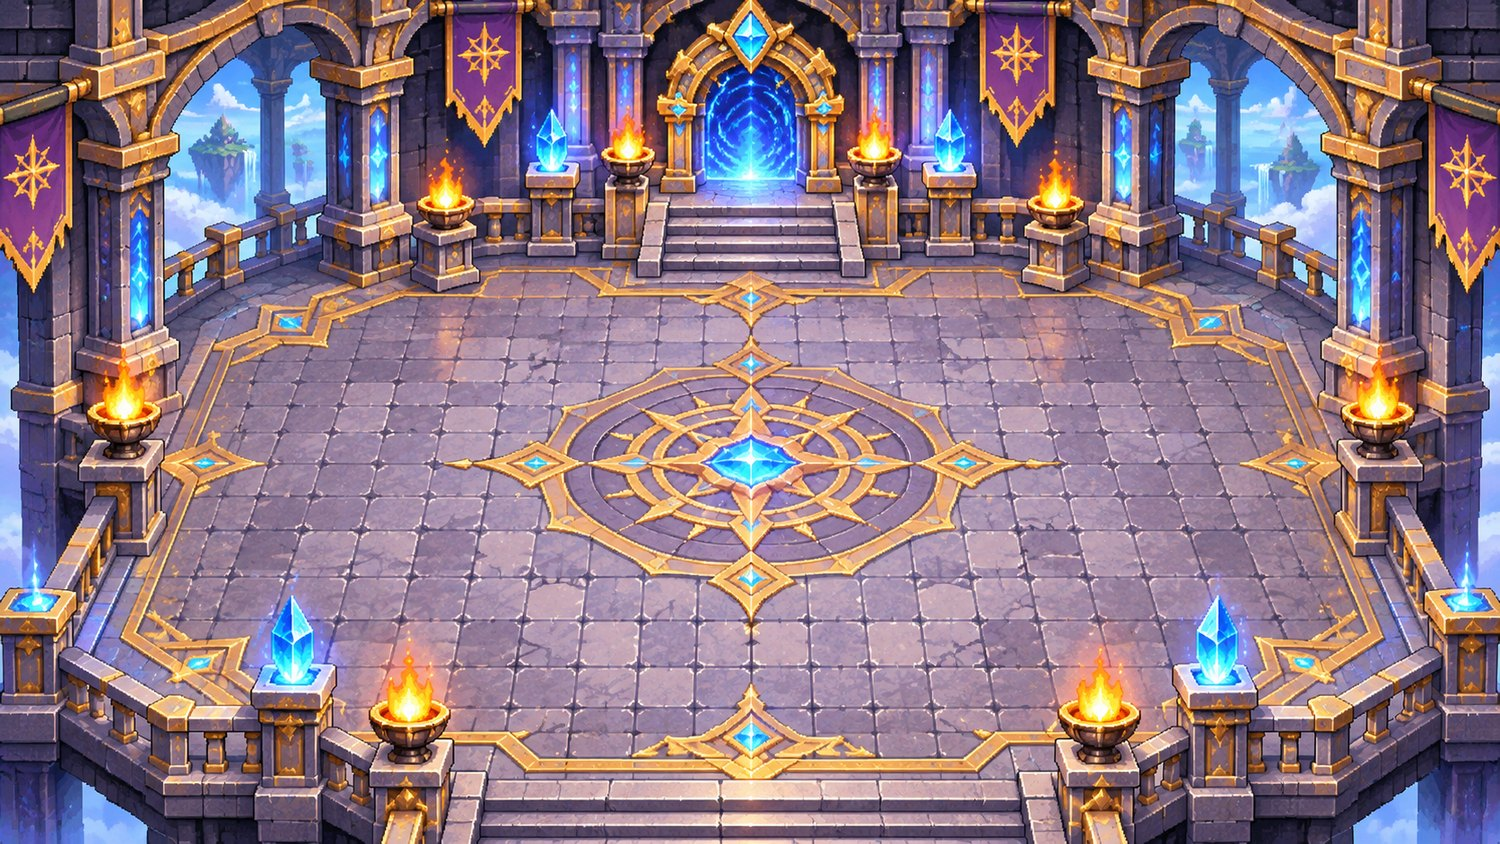
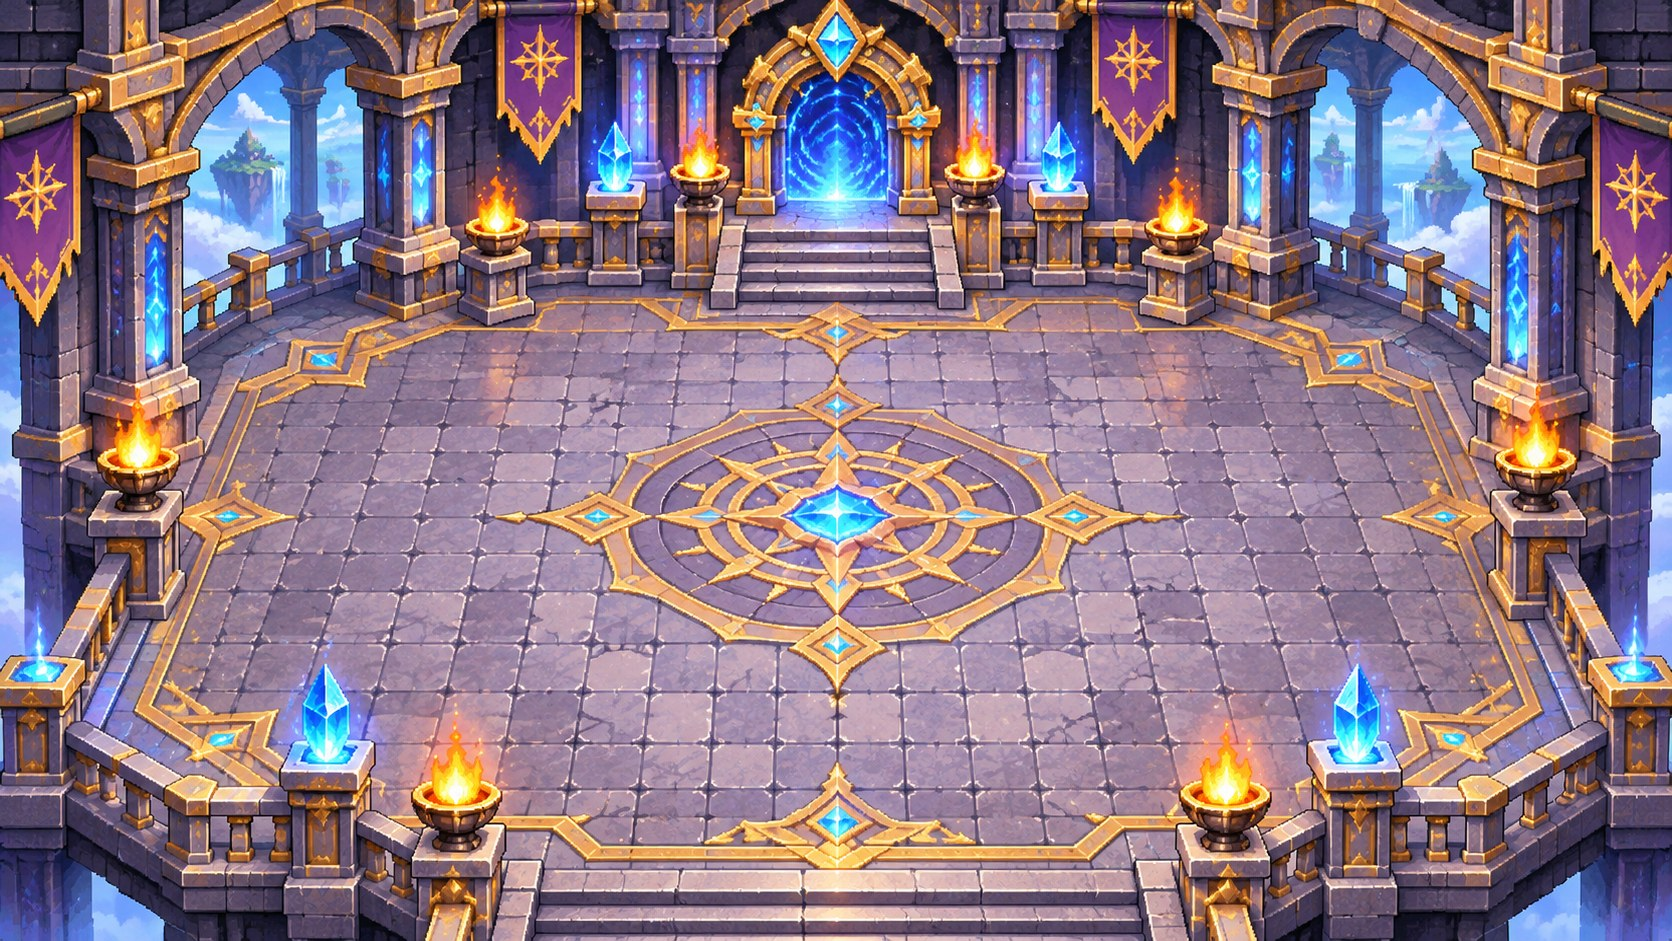
v264: the tower hall picture fills the whole map (no dark bands), full-resolution
The map is as tall as the picture and as wide as its 16:9 (2310 × 1300); the walkable floor follows the picture's
floor again (900 × 385). Re-measured: a little easier than on the cropped floor.

Claude-Session: https://claude.ai/code/session_014wFmWGCviaZX45qxFt5PbG

diff --git a/js/world/towermap223.js b/js/world/towermap223.js
@@ -13,7 +13,7 @@
    Nothing else of the tower changes (levels, waves, timers, blessings, rewards, rankings, party climbs). */
 'use strict';
 
-const TWM_W = 1500, TWM_H = 1300, TWM_RX = 580, TWM_RY = 255;   // (v263) the floor of the owner's hall picture (towerimg263.js); was 390
+const TWM_W = 2310, TWM_H = 1300, TWM_RX = 900, TWM_RY = 385;   // (v264) the owner's hall picture fills the whole map (1300 tall, 16:9 → 2310 wide) and the floor in it
 /* (v259) the owner's six zones, by floor: 1–20 · 21–40 · 41–60 · 61–80 · 81–99 · 100 (towerart259.js paints what
    makes each one itself) */
 const TWM_TIERS = [
@@ -28,7 +28,7 @@ const TWM = {tier:-1, open:false, climbT:0};
 const twmOn = () => typeof TW !== 'undefined' && TW.active && typeof DG !== 'undefined' && DG.did === 'tower';
 const twmTierOf = f => (f >= 100 ? 5 : f > 80 ? 4 : f > 60 ? 3 : f > 40 ? 2 : f > 20 ? 1 : 0);   // (v259) the owner's zones
 const twmT = () => TWM_TIERS[twmTierOf(TW.f)];
-const twmC = () => ({x:W / 2, y:H / 2 + 70});
+const twmC = () => ({x:W / 2, y:H * .615});   // (v264) the centre of the picture's floor
 const twmStairs = () => { const c = twmC(); return {x:c.x, y:c.y - TWM_RY + 5}; };   // (v263) at the foot of the gate's steps in the picture
 const twmEntry = () => { const c = twmC(); return {x:c.x, y:c.y + TWM_RY - 90}; };
 const twmIn = (x, y, m = 0) => { if (typeof twzInOct === 'function') return twzInOct(x, y, m); const c = twmC(); return Math.hypot((x - c.x) / (TWM_RX - m), (y - c.y) / (TWM_RY - m * .66)) < 1; };

diff --git a/index.html b/index.html
@@ -504,7 +504,7 @@
 <script src="js/world/townlife221.js?v=222"></script>
 <script src="js/sys/marketgear221.js?v=221"></script>
 <script src="js/world/npcclear222.js?v=222"></script>
-<script src="js/world/towermap223.js?v=263"></script>
+<script src="js/world/towermap223.js?v=264"></script>
 <script src="js/sys/towerbal224.js?v=256"></script>
 <script src="js/sys/balance225.js?v=253"></script>
 <script src="js/sys/towerfloors226.js?v=226"></script>
@@ -516,7 +516,7 @@
 <script src="js/world/towerart259.js?v=259"></script>
 <script src="js/world/bldimg260.js?v=263"></script>
 <script src="js/world/towerlive261.js?v=261"></script>
-<script src="js/world/towerimg263.js?v=263"></script>
+<script src="js/world/towerimg263.js?v=264"></script>
 <script src="js/sys/login234.js?v=235"></script>
 <script src="js/sys/tower235.js?v=256"></script>
 <script src="js/sys/mobstatus236.js?v=236"></script>

diff --git a/js/world/towerimg263.js b/js/world/towerimg263.js
@@ -20,7 +20,7 @@ function timgHall(){
   const im = TIMG.floor, c = twmC(), g = terr.getContext('2d'); g.save(); g.setTransform(TS, 0, 0, TS, 0, 0);
   const FW = Math.max(W, terr.width / TS), FH = Math.max(H, terr.height / TS);
   const sky = g.createLinearGradient(0, 0, 0, FH); sky.addColorStop(0, '#1c2448'); sky.addColorStop(1, '#0a0e22'); g.fillStyle = sky; g.fillRect(0, 0, FW, FH);
-  const w = W, h = w * im.naturalHeight / im.naturalWidth, x = c.x - w * TIMG_FLOOR.cx, y = c.y - h * TIMG_FLOOR.cy;
+  const h = H, w = h * im.naturalWidth / im.naturalHeight, x = c.x - w * TIMG_FLOOR.cx, y = c.y - h * TIMG_FLOOR.cy;   // (v264) as tall as the map: it fills it
   g.imageSmoothingEnabled = true; g.imageSmoothingQuality = 'high'; g.drawImage(im, x, y, w, h);
   g.restore();
 }

diff --git a/docs/TOWER.md b/docs/TOWER.md
@@ -5,50 +5,50 @@ Auto ปีนจากเช็คพอยต์ที่มอนเลเว
 | สาย | อาชีพ | Lv | เริ่มชั้น | ถึงชั้น | ปีนได้ | มอนชั้นที่จบ | ห่างจากเลเวลเรา | จบเพราะ |
 |---|---|---|---|---|---|---|---|---|
 | blade | นักดาบ | 30 | 1 | 9 | 9 | Lv 30 | +0 | ตาย |
-| blade | ขุนพลปราการ | 100 | 21 | 29 | 9 | Lv 90 | -10 | ตาย |
-| blade | ขุนพลปราการ | 200 | 51 | 59 | 9 | Lv 180 | -20 | ตาย |
-| blade | ขุนพลปราการ | 300 | 91 | 94 | 4 | Lv 285 | -15 | ตาย |
+| blade | ขุนพลปราการ | 100 | 21 | 34 | 14 | Lv 105 | +5 | ตาย |
+| blade | ขุนพลปราการ | 200 | 51 | 54 | 4 | Lv 165 | -35 | ตาย |
+| blade | ขุนพลปราการ | 300 | 91 | 93 | 3 | Lv 282 | -18 | หมดเวลา |
 | rune | นักเวท | 30 | 1 | 9 | 9 | Lv 30 | +0 | ตาย |
-| rune | จอมเวทจตุธาตุ | 100 | 21 | 24 | 4 | Lv 75 | -25 | ตาย |
+| rune | จอมเวทจตุธาตุ | 100 | 21 | 28 | 8 | Lv 87 | -13 | ตาย |
 | rune | จอมเวทจตุธาตุ | 200 | 51 | 58 | 8 | Lv 177 | -23 | ตาย |
-| rune | จอมเวทจตุธาตุ | 300 | 91 | 94 | 4 | Lv 285 | -15 | ตาย |
+| rune | จอมเวทจตุธาตุ | 300 | 91 | 99 | 9 | Lv 300 | +0 | ตาย |
 | ranger | พราน | 30 | 1 | 9 | 9 | Lv 30 | +0 | ตาย |
 | ranger | จ้าวพนาไพร | 100 | 21 | 29 | 9 | Lv 90 | -10 | ตาย |
-| ranger | จ้าวพนาไพร | 200 | 51 | 54 | 4 | Lv 165 | -35 | ตาย |
+| ranger | จ้าวพนาไพร | 200 | 51 | 59 | 9 | Lv 180 | -20 | ตาย |
 | ranger | จ้าวพนาไพร | 300 | 91 | 94 | 4 | Lv 285 | -15 | ตาย |
 | muay | นักมวย | 30 | 1 | 4 | 4 | Lv 15 | -15 | ตาย |
 | muay | เจ้าสังเวียน | 100 | 21 | 29 | 9 | Lv 90 | -10 | ตาย |
-| muay | เจ้าสังเวียน | 200 | 51 | 54 | 4 | Lv 165 | -35 | ตาย |
+| muay | เจ้าสังเวียน | 200 | 51 | 59 | 9 | Lv 180 | -20 | ตาย |
 | muay | เจ้าสังเวียน | 300 | 91 | 94 | 4 | Lv 285 | -15 | ตาย |
-| healer | หมอยา | 30 | 1 | 4 | 4 | Lv 15 | -15 | ตาย |
-| healer | เวชบดีทิพย์ | 100 | 21 | 29 | 9 | Lv 90 | -10 | ตาย |
+| healer | หมอยา | 30 | 1 | 9 | 9 | Lv 30 | +0 | ตาย |
+| healer | เวชบดีทิพย์ | 100 | 21 | 34 | 14 | Lv 105 | +5 | ตาย |
 | healer | เวชบดีทิพย์ | 200 | 51 | 59 | 9 | Lv 180 | -20 | ตาย |
-| healer | เวชบดีทิพย์ | 300 | 91 | 91 | 1 | Lv 276 | -24 | หมดเวลา |
-| rogue | นักย่อง | 30 | 1 | 9 | 9 | Lv 30 | +0 | ตาย |
-| rogue | พยัคฆ์เงา | 100 | 21 | 29 | 9 | Lv 90 | -10 | ตาย |
-| rogue | พยัคฆ์เงา | 200 | 51 | 59 | 9 | Lv 180 | -20 | ตาย |
-| rogue | พยัคฆ์เงา | 300 | 91 | 94 | 4 | Lv 285 | -15 | ตาย |
+| healer | เวชบดีทิพย์ | 300 | 91 | 94 | 4 | Lv 285 | -15 | ตาย |
+| rogue | นักย่อง | 30 | 1 | 4 | 4 | Lv 15 | -15 | ตาย |
+| rogue | พยัคฆ์เงา | 100 | 21 | 24 | 4 | Lv 75 | -25 | ตาย |
+| rogue | พยัคฆ์เงา | 200 | 51 | 54 | 4 | Lv 165 | -35 | ตาย |
+| rogue | พยัคฆ์เงา | 300 | 91 | 91 | 1 | Lv 276 | -24 | หมดเวลา |
 | summoner | ผู้อัญเชิญ | 30 | 1 | 9 | 9 | Lv 30 | +0 | ตาย |
-| summoner | จักรพรรดิหิมพานต์ | 100 | 21 | 34 | 14 | Lv 105 | +5 | ตาย |
-| summoner | จักรพรรดิหิมพานต์ | 200 | 51 | 59 | 9 | Lv 180 | -20 | ตาย |
+| summoner | จักรพรรดิหิมพานต์ | 100 | 21 | 44 | 24 | Lv 135 | +35 | ตาย |
+| summoner | จักรพรรดิหิมพานต์ | 200 | 51 | 64 | 14 | Lv 195 | -5 | ตาย |
 | summoner | จักรพรรดิหิมพานต์ | 300 | 91 | 99 | 9 | Lv 300 | +0 | ตาย |
-| occult | ไสยเวท | 30 | 1 | 9 | 9 | Lv 30 | +0 | ตาย |
+| occult | ไสยเวท | 30 | 1 | 14 | 14 | Lv 45 | +15 | ตาย |
 | occult | ราชันย์ไสยเวท | 100 | 21 | 29 | 9 | Lv 90 | -10 | ตาย |
 | occult | ราชันย์ไสยเวท | 200 | 51 | 64 | 14 | Lv 195 | -5 | ตาย |
 | occult | ราชันย์ไสยเวท | 300 | 91 | 99 | 9 | Lv 300 | +0 | ตาย |
-| merchant | พ่อค้า | 30 | 1 | 9 | 9 | Lv 30 | +0 | ตาย |
-| merchant | มหาเศรษฐีวาณิช | 100 | 21 | 36 | 16 | Lv 111 | +11 | ตาย |
-| merchant | มหาเศรษฐีวาณิช | 200 | 51 | 54 | 4 | Lv 165 | -35 | ตาย |
+| merchant | พ่อค้า | 30 | 1 | 13 | 13 | Lv 42 | +12 | ตาย |
+| merchant | มหาเศรษฐีวาณิช | 100 | 21 | 34 | 14 | Lv 105 | +5 | ตาย |
+| merchant | มหาเศรษฐีวาณิช | 200 | 51 | 59 | 9 | Lv 180 | -20 | ตาย |
 | merchant | มหาเศรษฐีวาณิช | 300 | 91 | 94 | 4 | Lv 285 | -15 | ตาย |
 | catfolk | เจ้าเหมียว | 30 | 1 | 4 | 4 | Lv 15 | -15 | ตาย |
-| catfolk | ราชินีวิเชียรมาศ | 100 | 21 | 25 | 5 | Lv 78 | -22 | ตาย |
+| catfolk | ราชินีวิเชียรมาศ | 100 | 21 | 29 | 9 | Lv 90 | -10 | ตาย |
 | catfolk | ราชินีวิเชียรมาศ | 200 | 51 | 54 | 4 | Lv 165 | -35 | ตาย |
-| catfolk | ราชินีวิเชียรมาศ | 300 | 91 | 91 | 1 | Lv 276 | -24 | ตาย |
-| dogfolk | เจ้าตูบ | 30 | 1 | 9 | 9 | Lv 30 | +0 | ตาย |
-| dogfolk | อัศวินบางแก้ว | 100 | 21 | 34 | 14 | Lv 105 | +5 | ตาย |
+| catfolk | ราชินีวิเชียรมาศ | 300 | 91 | 94 | 4 | Lv 285 | -15 | ตาย |
+| dogfolk | เจ้าตูบ | 30 | 1 | 16 | 16 | Lv 51 | +21 | ตาย |
+| dogfolk | อัศวินบางแก้ว | 100 | 21 | 44 | 24 | Lv 135 | +35 | ตาย |
 | dogfolk | อัศวินบางแก้ว | 200 | 51 | 59 | 9 | Lv 180 | -20 | ตาย |
-| dogfolk | อัศวินบางแก้ว | 300 | 91 | 93 | 3 | Lv 282 | -18 | หมดเวลา |
-| ninja | นินจา | 30 | 1 | 4 | 4 | Lv 15 | -15 | ตาย |
-| ninja | จอมนินจาคาเงะ | 100 | 21 | 24 | 4 | Lv 75 | -25 | ตาย |
-| ninja | จอมนินจาคาเงะ | 200 | 51 | 54 | 4 | Lv 165 | -35 | ตาย |
-| ninja | จอมนินจาคาเงะ | 300 | 91 | 93 | 3 | Lv 282 | -18 | หมดเวลา |
+| dogfolk | อัศวินบางแก้ว | 300 | 91 | 99 | 9 | Lv 300 | +0 | ตาย |
+| ninja | นินจา | 30 | 1 | 14 | 14 | Lv 45 | +15 | ตาย |
+| ninja | จอมนินจาคาเงะ | 100 | 21 | 39 | 19 | Lv 120 | +20 | ตาย |
+| ninja | จอมนินจาคาเงะ | 200 | 51 | 59 | 9 | Lv 180 | -20 | ตาย |
+| ninja | จอมนินจาคาเงะ | 300 | 91 | 94 | 4 | Lv 285 | -15 | ตาย |

diff --git a/docs/UPDATES.md b/docs/UPDATES.md
@@ -19,6 +19,12 @@
 
 
 
+## ภาพห้องหอคอยเต็มจอ (v264, 2026-11-07)
+
+- ภาพพื้นห้องหอคอยขยายเต็มทั้งแผนที่ ไม่มีขอบมืดด้านข้างและด้านล่างแล้ว (แม้ซูมออกสุด) · ใช้ภาพความละเอียดเต็มให้คมเมื่อขยาย
+- พื้นที่เดินขยายตามพื้นในภาพ (กว้าง 1,800 · สูง 770) · บันไดขึ้นอยู่เชิงประตูในภาพ
+- วัดความยากซ้ำ: ปีนได้เฉลี่ย Lv 30 = 9.5 · Lv 100 = 13.1 · Lv 200 = 8.5 · Lv 300 = 5.3 ชั้น (Auto ของร้าน) ง่ายขึ้นเล็กน้อยจากพื้นที่กว้างขึ้น
+
 ## ภาพชุดใหม่ของเจ้าของเกมทั้งเมือง · หอคอยใช้ภาพพื้นห้อง · ลานน้ำพุกลางนครอาเรน · ไม่มีทางเดินดิน (v263, 2026-11-07)
 
 - **ภาพชุดใหม่ 18 ภาพ** (เจ้าของเกมลบชุดเก่าแล้วอัปใหม่): ร้านยา · ร้านตีบวก · โรงหลอม · ร้านเจาะรู/ถอดการ์ด · ร้านสมุนไพร · โรงครัว · ร้านแฟชั่น · คลัง · สมาคมนักผจญภัย (กิลด์) · ร้านแฟชั่นเทศกาล · ตลาด · ฟาร์มสัตว์ · หมออาสา · ประตูดันเจี้ยนแห่งความโกลาหล · อนุสรณ์หอคอยร้อยชั้น
